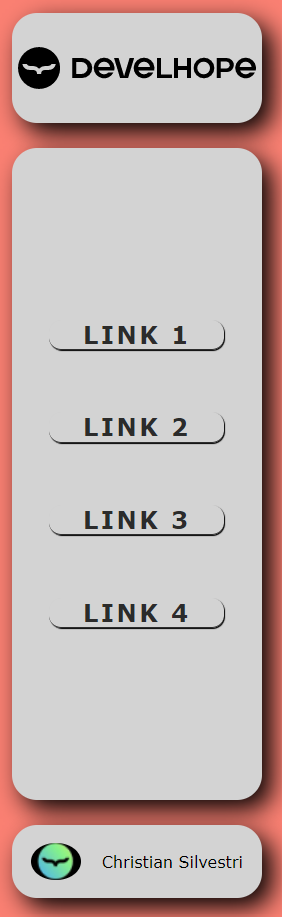
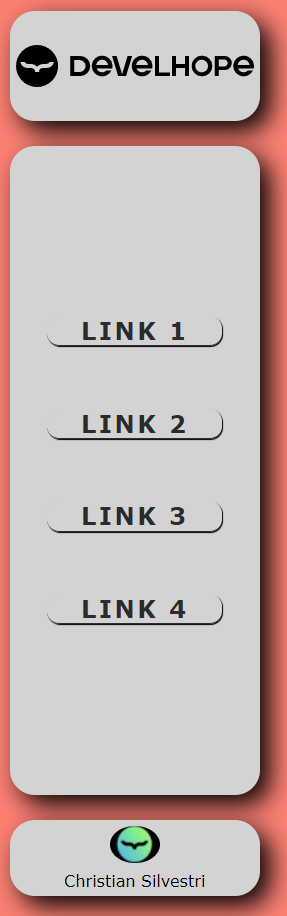
Update CSS esercizio 3

diff --git a/index.html b/index.html
@@ -5,7 +5,7 @@
     <meta http-equiv="X-UA-Compatible" content="IE=edge">
     <meta name="viewport" content="width=device-width, initial-scale=1.0">
     <title>CSS - Esercizio 3</title>
-    <link rel="stylesheet" type="text/css" href="css/style.css">
+    <link rel="stylesheet" type="text/css" href="css/style.css" />
 </head>
 <body>
     <aside class="container">

diff --git a/css/style.css b/css/style.css
@@ -73,13 +73,14 @@ body {
 
 .avatar {
     height: 80px;
-    padding: 0px 15px;
+    padding: 5px 15px;
     
 }
 .avatar figure {
     width: 100%;
     height: 100%;
     display: flex;
+    flex-direction: column;
     justify-content: space-between;
     align-items: center;
 }
